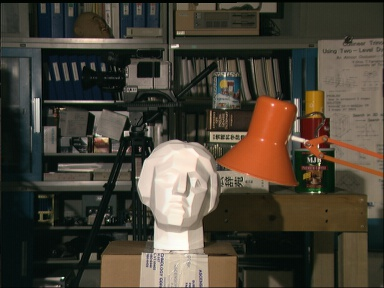
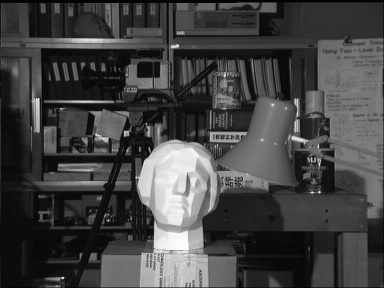
block matching

diff --git a/DepthMap/Source.cpp b/DepthMap/Source.cpp
@@ -1,36 +1,140 @@
 #include "opencv2/imgproc/imgproc.hpp"
 #include "opencv2/highgui/highgui.hpp"
 #include <iostream>
+#include <vector>
+#include <cmath>
+#include <limits>
 using namespace std;
 using namespace cv;
+
+const int WINDOW_SIZE = 11; // should be even
+const int LEVEL = 6;
+
+void blockMatching(Mat SrcImg1, Mat SrcImg2, Mat& DisparityMap);
+void imageShowTesting(Mat& DisparityMap);
 
 int main() {
 
 	// Read input images
 	// Fig3.tif is in openCV\bin\Release
-	Mat SrcImg1 = imread("Resources/tsukuba/scene1.row3.col1.ppm", CV_LOAD_IMAGE_COLOR);
-	Mat SrcImg2 = imread("Resources/tsukuba/scene1.row3.col2.ppm", CV_LOAD_IMAGE_COLOR);
+	Mat SrcImg1 = imread("Resources/tsukuba/scene1.row3.col1.ppm", CV_LOAD_IMAGE_GRAYSCALE);
+	Mat SrcImg2 = imread("Resources/tsukuba/scene1.row3.col2.ppm", CV_LOAD_IMAGE_GRAYSCALE);
 	Mat SrcImg3 = imread("Resources/tsukuba/scene1.row3.col3.ppm", CV_LOAD_IMAGE_COLOR);
 	Mat SrcImg4 = imread("Resources/tsukuba/scene1.row3.col4.ppm", CV_LOAD_IMAGE_COLOR);
 	Mat SrcImg5 = imread("Resources/tsukuba/scene1.row3.col5.ppm", CV_LOAD_IMAGE_COLOR);
-	Mat SrcImg6 = imread("Resources/tsukuba/truedisp.row3.col3.pgm", CV_LOAD_IMAGE_COLOR);
+	Mat GroundTruth = imread("Resources/tsukuba/truedisp.row3.col3.pgm", CV_LOAD_IMAGE_COLOR);
+
+	cout << "SrcImg1: " << SrcImg1.rows << ' ' << SrcImg1.cols << endl;
+	cout << "SrcImg2: " << SrcImg2.rows << ' ' << SrcImg2.cols << endl;
 
 	// Show images
-	imshow("Input Image1", SrcImg1);
-	imshow("Input Image2", SrcImg2);
+	//imshow("Input Image1", SrcImg1);
+	//imshow("Input Image2", SrcImg2);
 	//imshow("Input Image3", SrcImg3);
 	//imshow("Input Image4", SrcImg4);
 	//imshow("Input Image5", SrcImg5);
-	//imshow("Input Image6", SrcImg6);
+	imshow("Ground Truth", GroundTruth);
 
+	Mat DisparityMap(SrcImg1.rows, SrcImg1.cols, CV_8UC1, Scalar(0));
+
+	//imageShowTesting(DisparityMap);
+	blockMatching(SrcImg1, SrcImg2, DisparityMap);
+
+	imshow("Disparity Map", DisparityMap);
+	imwrite("Resources/tsukuba/disparity map.jpg", DisparityMap);
 	// Write output images
-	/*imwrite("Resources/tsukuba/scene1.row3.col1.jpg", SrcImg1);
-	imwrite("Resources/tsukuba/scene1.row3.col2.jpg", SrcImg2);
-	imwrite("Resources/tsukuba/scene1.row3.col3.jpg", SrcImg3);
+	//imwrite("Resources/tsukuba/scene1.row3.col1.jpg", SrcImg1);
+	//imwrite("Resources/tsukuba/scene1.row3.col2.jpg", SrcImg2);
+	/*imwrite("Resources/tsukuba/scene1.row3.col3.jpg", SrcImg3);
 	imwrite("Resources/tsukuba/scene1.row3.col4.jpg", SrcImg4);
 	imwrite("Resources/tsukuba/scene1.row3.col5.jpg", SrcImg5);
 	imwrite("Resources/tsukuba/truedisp.row3.col3.jpg", SrcImg6);*/
 
 	waitKey(0);
 	return 0;
+}
+
+void blockMatching(Mat SrcImg1, Mat SrcImg2, Mat & DisparityMap)
+{
+	Mat original_disparitiy(SrcImg1.rows, SrcImg1.cols, CV_32S, Scalar(0));
+
+	int m = ( WINDOW_SIZE - 1 ) / 2;
+	for (int rowIndex = m; rowIndex < SrcImg1.rows - m - 1; rowIndex++) {
+		for (int colIndex = m; colIndex < SrcImg1.cols - m - 1; colIndex++) {
+			int min_ssd = std::numeric_limits<int>::max();
+
+			int search_start = colIndex > 80 ? colIndex - 50 : m;
+			// the corresponding epipolar line
+			for (int rcolIndex = search_start; rcolIndex < colIndex; rcolIndex++) {
+				int d = colIndex - rcolIndex;
+				unsigned int ssd = 0;
+				for (int i = -m; i <= m; i++) {
+					for (int j = -m; j <= m; j++) {
+						ssd += pow((int)SrcImg1.at<uchar>(rowIndex + i, colIndex + j) - (int)SrcImg2.at<uchar>(rowIndex + i, colIndex - d + j), 2.0);
+					}
+				}
+				if (ssd < min_ssd) {
+					min_ssd = ssd;
+					original_disparitiy.at<int>(rowIndex, colIndex) = abs(d);
+				}
+			}
+			//cout <<	original_disparitiy.at<int>(rowIndex, colIndex) << ',';
+		}
+		//cout << endl;
+		//break;
+	}
+
+	//Mat normalized_original_disparitiy(SrcImg1.rows, SrcImg1.cols, CV_32FC1, Scalar(0));
+	normalize(original_disparitiy, original_disparitiy, 0.0, 255.0, NORM_MINMAX);
+	original_disparitiy.convertTo(original_disparitiy, CV_8U, 1.0, 0);
+	imshow("TEST", original_disparitiy);
+	
+	DisparityMap = original_disparitiy;
+
+	// visualization
+	/*for (int rowIndex = 0; rowIndex < SrcImg1.rows; rowIndex++) {
+		for (int colIndex = 0; colIndex < SrcImg1.cols; colIndex++) {
+			int which_level = (float)original_disparitiy.at<uchar>(rowIndex, colIndex) / (255.0 / LEVEL);
+			DisparityMap.at<uchar>(rowIndex, colIndex) = ((float)which_level / LEVEL) * 255.0;
+		}
+	}*/
+}
+
+void imageShowTesting(Mat & DisparityMap)
+{
+	/*Mat mat1(2, 2, CV_32FC1);
+	mat1.at<float>(0, 0) = 1.0f;
+	mat1.at<float>(0, 1) = 2.0f;
+	mat1.at<float>(1, 0) = 3.0f;
+	mat1.at<float>(1, 1) = 4.0f;
+	cout << "Mat 1:\n" << mat1 << endl;
+	normalize(mat1, mat1, 0.0, 255.0, NORM_MINMAX);
+	cout << "Normalized Mat 1:\n" << mat1 << endl;*/
+	//imshow("Test", mat1);
+
+	/*float temp = (float)1 / LEVEL;
+	int x = temp * 255.0;
+	cout << x << endl;*/
+	//cout << abs(-255.0);
+
+	Mat original_disparitiy(DisparityMap.rows, DisparityMap.cols, CV_32S, Scalar(0));
+
+	for (int rowIndex = 0; rowIndex < DisparityMap.rows; rowIndex++) {
+		for (int colIndex = 0; colIndex < DisparityMap.cols; colIndex++) {
+			DisparityMap.at<uchar>(rowIndex, colIndex) = (float)colIndex / DisparityMap.cols * 255;
+			original_disparitiy.at<int>(rowIndex, colIndex) = (float)colIndex / DisparityMap.cols * 255;
+		}
+	}
+
+	normalize(original_disparitiy, original_disparitiy, 0.0, 255.0, NORM_MINMAX);
+	original_disparitiy.convertTo(original_disparitiy, CV_8U, 1.0, 0);
+	imshow("original disparity", original_disparitiy);
+
+	// visualization
+	for (int rowIndex = 0; rowIndex < DisparityMap.rows; rowIndex++) {
+		for (int colIndex = 0; colIndex < DisparityMap.cols; colIndex++) {
+			int which_level = (float)DisparityMap.at<uchar>(rowIndex, colIndex) / (255.0 / LEVEL);
+			DisparityMap.at<uchar>(rowIndex, colIndex) = ((float)which_level / LEVEL) * 255.0;
+		}
+	}
 }
